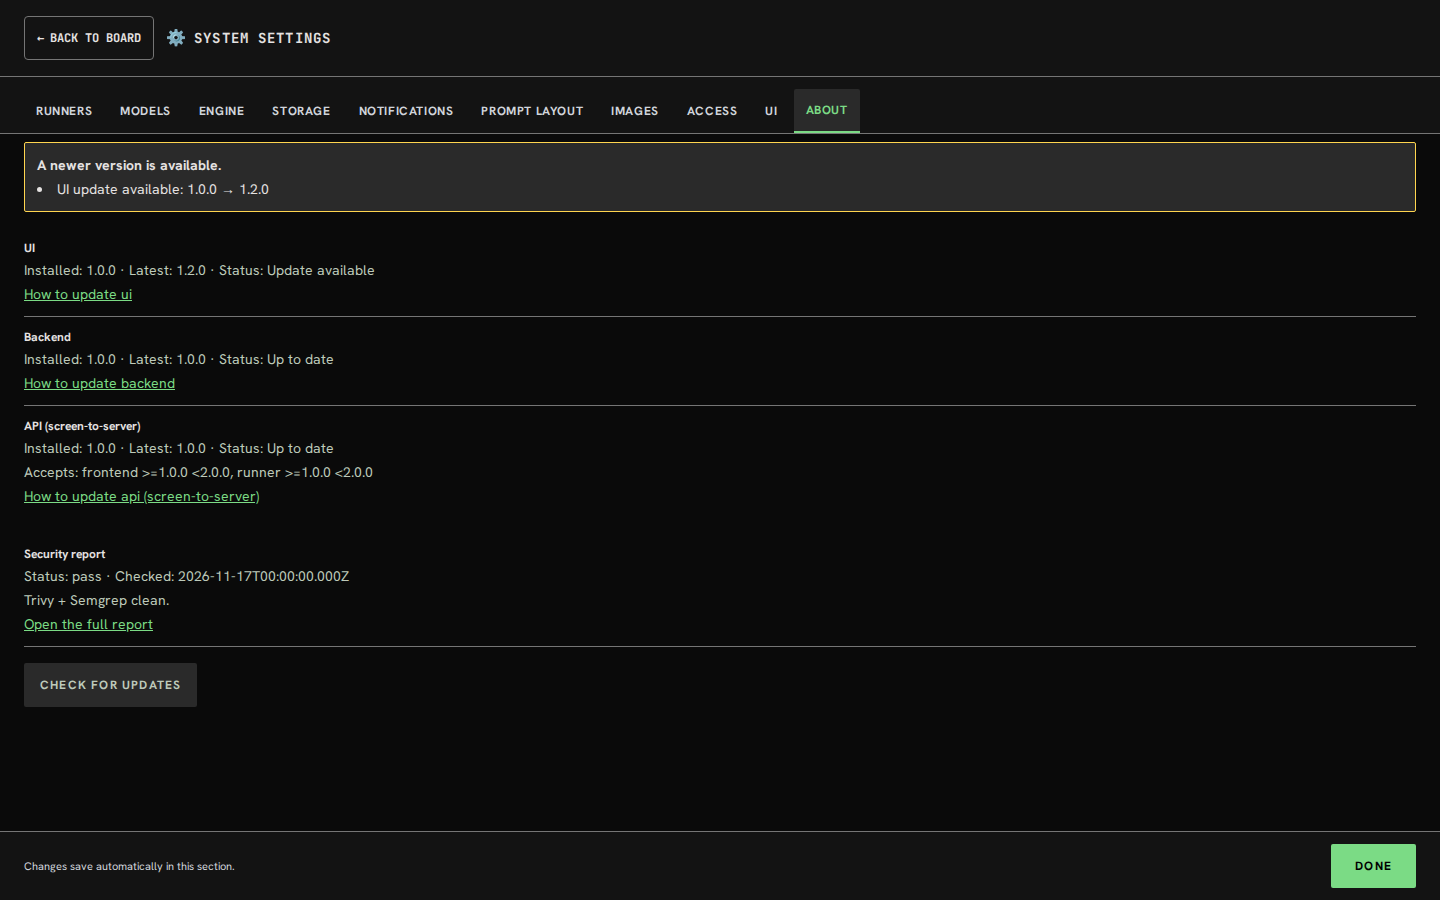
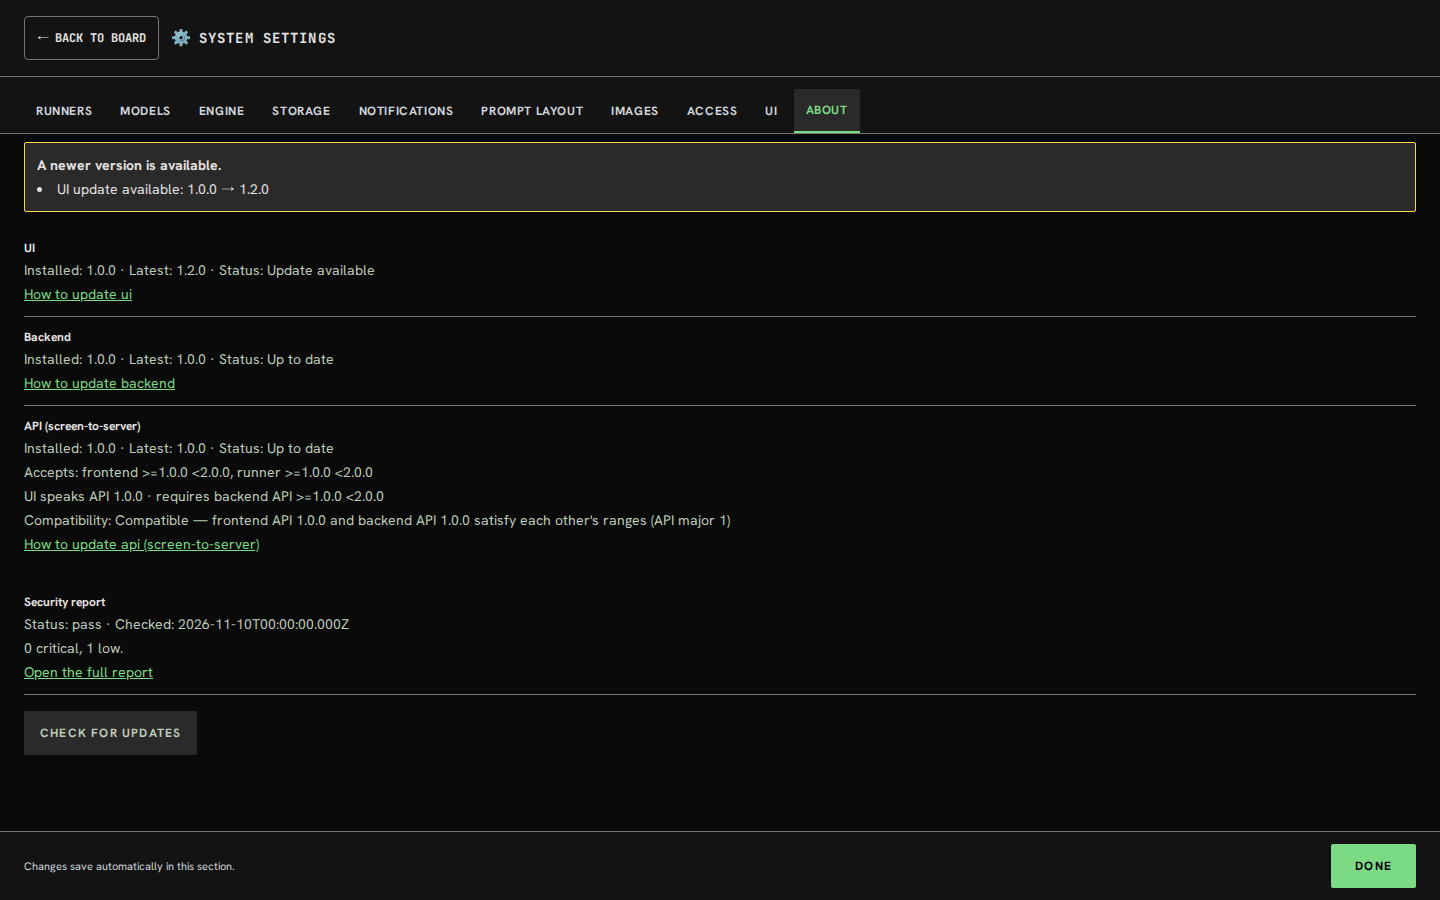
kb/c5c465c4-9904-47ae-8661-63f08b9fbede stage-1787744723298: Runner server2-alpha stage output
KainBain-Task: c5c465c4-9904-47ae-8661-63f08b9fbede
KainBain-Stage: stage-1787744723298
KainBain-Config-Hash: sha256:060d97c293611a0a8abc927423c22440e90402f82657f8f83b0e42bca23f1db8

Changed region(s): [[0.0, 0.5289, 0.5, 0.84], [0.0312, 0.0311, 0.25, 0.0622]]

diff --git a/docs/tasks/c5c465c4-9904-47ae-8661-63f08b9fbede/stage-review-20261117.md b/docs/tasks/c5c465c4-9904-47ae-8661-63f08b9fbede/stage-review-20261117.md
@@ -1,0 +1,151 @@
+# Stage review — Version information page in global settings (c5c465c4)
+
+Stage: PR-review-equivalent (docs-only). Branch `kb/c5c465c4-9904-47ae-8661-63f08b9fbede`
+at HEAD `c423bf90`. This review re-verified everything from scratch against the
+current tree because the two earlier reviews (`pr-review-20261117.md`,
+`code-standards-review-20261117.md`) describe the superseded honest-unknown
+default; the human correction (all rows showing Unknown) has since been fixed
+by reporting `up-to-date` when no newer release is advertised.
+
+Verdict: PASS. Evidence below; every claim was observed in this stage.
+
+## 1. Does it achieve the goal?
+
+Yes — all four task elements plus the human correction, each verified live:
+
+- **Information page in global settings.** `about` tab in `SETTINGS_TABS`
+  (`frontend/src/components/settings/settingsTabs.js`), rendered by
+  `SystemSettingsContent.jsx` as `VersionInfoSection`, reachable at
+  `#/system-settings/about` via the existing `:section` route. Confirmed in a
+  real headless browser (branch build, same-origin, throwaway loopback stub):
+  tab bar shows ABOUT highlighted; page renders rows, banner, security card.
+- **UI + backend + API versions from the running build.** UI from
+  `frontend/package.json` via `frontend/src/version.js` (`UI_VERSION`, sent as
+  `?uiVersion=` — observed in the stub request log); backend from
+  `api/package.json` via `readBackendVersion`; API contract from
+  `api/version.json` via `readApiContract`; aggregated by `buildVersionInfo`,
+  served by `GET /status/versions` (`api/routes/status.js`). Real-route probe
+  returned installed 1.0.0/1.0.0/1.0.0 with the real accepts map.
+- **Human correction 1 — no more all-Unknown.** `resolveLatestRelease` reports
+  `up-to-date` (latest echoes installed) when a `KAINBAIN_LATEST_*` knob is
+  unset/blank — the default install — instead of `unknown`. Real-route probe
+  with no knobs: all three rows `up-to-date`, `warnings: []`. Screenshot
+  `review-about-uptodate-no-report.png` shows the default state with zero
+  Unknown rows. Malformed knobs and missing installed versions still yield
+  honest `unknown` (probed + unit-tested), never a fake up-to-date.
+- **Human correction 2 — API tied to backend/frontend, major-rule compat.**
+  The UI reports its contract (`FRONTEND_API_VERSION` +
+  `FRONTEND_REQUIRES_BACKEND_API` from `frontend/version.json`) as
+  `?frontendApiVersion=` + `?requiresBackendApi=` (observed in stub log); the
+  backend judges the live pair in `checkApiCompatibility` (each declared range
+  must contain the other side's version; with no verifiable range, same API
+  major = compatible). Probed: same-major pair → `compatible` mentioning
+  "API major 1"; split major → `incompatible` naming both versions; old UI
+  sending no contract → `unknown`, no crash. Both screenshots show the
+  "UI speaks API … · requires backend API …" tie-in line plus the verdict.
+  This is exactly the asymmetric-update / partial-redeploy rule requested.
+- **Latest security report for the build.** `readSecurityReport` loads the
+  operator JSON file (`KAINBAIN_SECURITY_REPORT_PATH`, fallback
+  `KAINBAIN_SECURITY_REPORT_URL`); env-wired probe returned `pass` +
+  `checkedAt` + `summary` + `reportUrl`. UI renders summary + "Open the full
+  report"; unconfigured builds render "No security report recorded for this
+  build" — never a fabricated pass. Both states browser-verified.
+- **Warning when a newer version exists.** `compareRelease` (semver gt on
+  `coerceRunnerVersion`-normalized input) yields `update-available`; endpoint
+  `warnings` name each outdated component; UI shows a `role="alert"` banner.
+  Env-wired probe (`KAINBAIN_LATEST_UI_VERSION=1.2.0`,
+  `KAINBAIN_LATEST_BACKEND_VERSION=v2.0.0`) returned both warnings with
+  v-prefix coerced. Browser-verified: "A newer version is available. UI
+  update available: 1.0.0 → 1.2.0".
+- **Update-guide links in site docs.** `VERSION_UPDATE_GUIDES` points each row
+  at `#/docs/update-ui|update-backend|update-api`; the three
+  `site-docs/update-*.md` guides exist with valid frontmatter and pass
+  `docs:check`. Per-row "How to update …" links browser-verified.
+  `isSafeVersionLink` refuses `javascript:`/protocol-relative/data URLs
+  (unit-tested), so a hostile report file cannot arm a link.
+
+## 2. Did it follow the plan? (IMPLEMENTATION_PLAN.md)
+
+Yes, with three deviations, all acceptable:
+
+- Unknown→up-to-date default contradicts the plan's "honest unknown" wording,
+  but the plan assumed a release feed while the implementation uses operator
+  knobs — with knobs, "unset" genuinely means "nothing newer known", so
+  up-to-date is the honest state. The change was explicitly requested by the
+  human correction and is documented in `CHANGELOG.md`, the config schema
+  docs, the guides, and `install-break-assessment.md`.
+- Phase-0 R1–R3 decision notes were never appended to the task folder; the
+  decisions live in JSDoc, `.env.example`, schema docs, and guides instead.
+  No information is lost.
+- Survey q5's free-text note suggested dedicated view-roles; the selected
+  answer ("Everyone who can open global settings") is what was built, matching
+  the plan default and the sibling `/status/*` routes (no `requireRole`,
+  versions/warnings/report-link only — nothing secret). Roles remain a product
+  follow-up, not a defect.
+
+## 3. Code standards
+
+- `npm run docs:check` — PASS (61 tests; 74 doc files link-checked;
+  jsdoc-@example PASS, 679 missing vs 680 grandfathered).
+- `npm run check:one-function` — PASS (839 files, 281 grandfathered).
+- `npm run lint:api` / `lint:frontend` — 0 errors; all touched feature files
+  lint clean individually (exit 0, no output).
+- `npm run check:binaries` — PASS; `check:proof-hygiene` — only pre-existing
+  baseline items from another task.
+- Style matches the repo: pure labelled-input helpers in `api/versionInfo.js`
+  with injectable `readFile`/`apiDir`, thin route pass-through with a
+  documented `deps.versions` test seam, `normalizeRelease` reusing
+  `coerceRunnerVersion` instead of new semver logic, prototype-key screening,
+  local React state, co-located black-box tests, MARK/@description/@example on
+  every new export.
+
+## 4. Easy to modify later / tech debt
+
+Single sources of truth throughout (`SETTINGS_TABS`,
+`VERSION_UPDATE_GUIDES`, config schema + `.env.example` in sync,
+`api/package.json` + `api/version.json` + `frontend/package.json` +
+`frontend/version.json`). Adding a component row = one guide slug + one entry.
+Both asymmetric-deploy windows hold (new-UI-vs-old-backend renders a targeted
+404 hint with backend-guide link — unit-tested; old-UI-vs-new-backend gets
+null contract fields — probed). Remaining debt is the documented, plan-blessed
+follow-up: manual security-report ingestion and operator-maintained latest
+knobs. No new abstractions, polling, or permission layers.
+
+## 5. Docs updated
+
+`site-docs/update-ui.md`, `update-backend.md`, `update-api.md` (the API guide
+documents the tie-in + major rule and forbids hand-editing contracts);
+`site-docs/api-reference.md` endpoint row; `api/agentGuide.js` entry;
+`CHANGELOG.md` entry covering the compat verdict and the up-to-date default;
+`.env.example` entries for all five knobs. All covered by the passing
+`docs:check`.
+
+## 6. Verification evidence (commands run in this stage)
+
+- `npm run test:unit` — exit 0: api 454 files / 7460 passed / 3 skipped,
+  frontend 357 files / 4859 passed.
+- Focused: api `versionInfo + status.versions` 51 passed; frontend
+  `VersionInfoSection + SystemSettingsContent + settingsTabs + version +
+  api.surface` 75 passed.
+- Real-route Fastify `inject` probes (real disk + real config): default
+  up-to-date + compatible; update-available + security fixture via env knobs;
+  old-frontend unknown-compat; split-major incompatible; v-prefix coercion.
+- `VITE_API_BASE= VITE_WS_URL= npm run build --prefix frontend` — built in
+  ~4.4s (also proves the version.json import is safe).
+- Headless browser (branch build, throwaway stub on 127.0.0.1:3199/3200,
+  killed afterwards; live :3100 untouched): stub logs prove the UI calls
+  same-origin `/status/versions?uiVersion=…&frontendApiVersion=…&
+  requiresBackendApi=…`. Captured `review-about-update-available.png`
+  (banner + rows + tie-in + compat + security pass + guide links) and
+  `review-about-uptodate-no-report.png` (no banner, all Up to date, honest
+  no-report state). Both PNG-magic-verified and pixel-inspected. The stale
+  `review-about-unknown-no-report.png` (superseded all-Unknown default) was
+  removed.
+
+## 7. Notes for later (non-blocking)
+
+- Automating security-report ingestion (CI/deploy writes the JSON, or a
+  SecObserve read) and replacing operator latest-knobs with a release feed
+  remain the documented follow-ups; both degrade honestly today.
+- If the survey q5 roles note should bind, add backend `requireRole`
+  enforcement on `/status/versions` as a follow-up.
